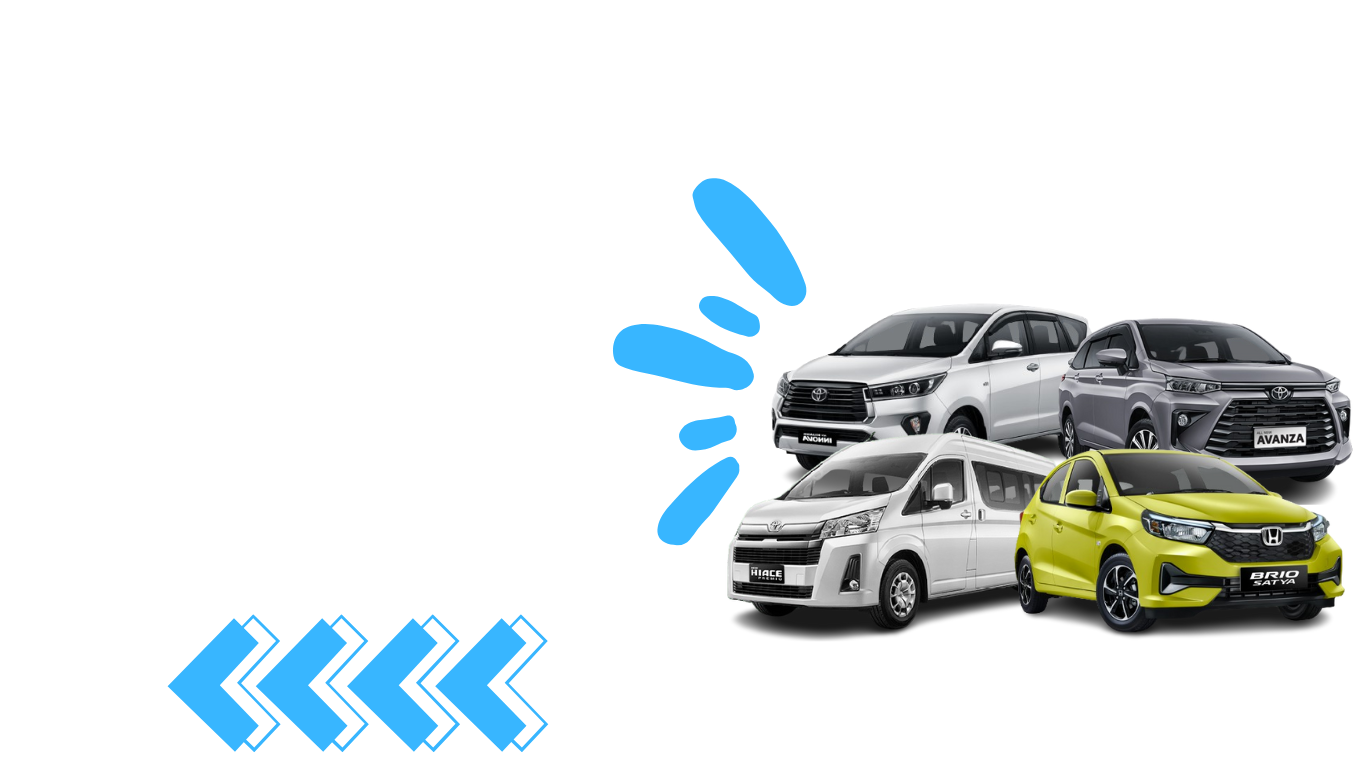
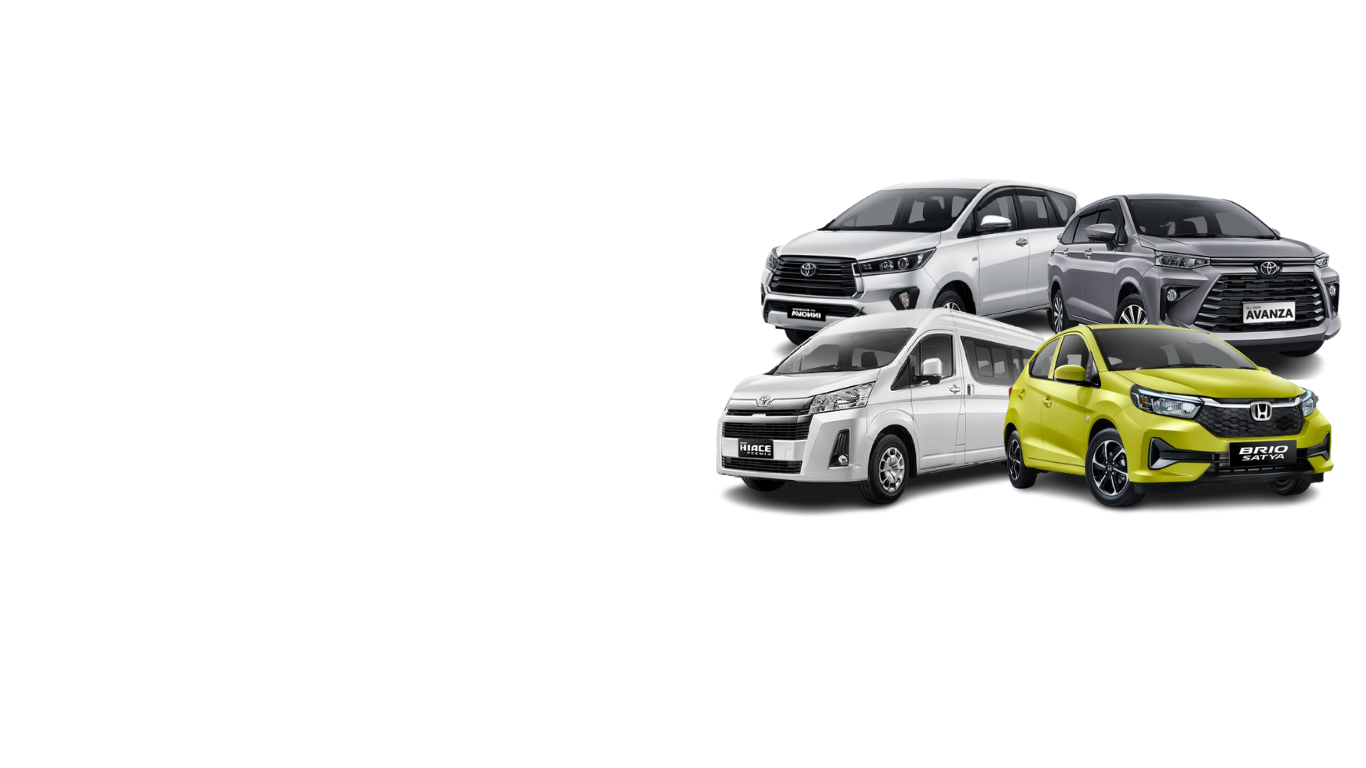
update: add code

Changed region(s): [[0.4305, 0.2188, 1.0, 0.8438], [0.123, 0.8125, 0.3997, 0.9688]]

diff --git a/Src/Index_Online/index.php b/Src/Index_Online/index.php
@@ -2,91 +2,54 @@
 $fetch_product = "select * from products";
 $result = $conn->query($fetch_product);
 ?>
-    <!-- Hero Section Begin -->
-    <section class="hero-section">
-        <div class="hero-items owl-carousel">
-            <div class="single-hero-items set-bg" data-setbg="img/BerandaUser.jpg">
-                <div class="container">
-                    <div class="row">
-                        <div class="col-lg-5">
-                            <span>Produk, Accessories</span>
-                            <h1>ZOEPY PET SHOP</h1>
-                            <p>
-                                Teman terbaik untuk hewan anda.
-                                
-                                </p>
-                            <a href="shop.php" class="primary-btn">Belanja Sekarang</a>
-                        </div>
+<!-- Hero Section Begin -->
+<section class="hero-section">
+    <div class="hero-items owl-carousel">
+        <div class="single-hero-items set-bg" data-setbg="img/BerandaUSer.png">
+            <div class="container">
+                <div class="row">
+                    <div class="col-lg-5">
+                        <span>jasa rental mobil</span>
+                        <h1>SIDA RENTCAR</h1>
+                        <p>
+                            Sida Rent Car, spesialis layanan transpotasi komersil untuk berbagai kebutuhan perjalanan
+                            anda.
+                            Berpengalaman menyediakan armada mobil terbaik di Yogyakarta, siap melayani semua kebutuhan
+                            anda.
+                        </p>
+                        <a href="shop.php" class="primary-btn">Pesan Sekarang</a>
                     </div>
-                   
                 </div>
+
             </div>
-            <div class="single-hero-items set-bg" data-setbg="img/hero-2.jpg">s
-                <div class="container">
-                    <div class="row">
-                        <div class="col-lg-5">
-                            <span style="color:white;">Produk, Accessories</span>
-                            <h1 style="color:white;">PET SHOP</h1>
-                            <p style="color:white;">
-                                Temukan daftar Produk hewann mulai dari mainan hingga Accessories yang menarik. Salah satu koleksi produk hewan peliharaan terlengkap di negara ini. 
-                                Zoepy akan melayani setiap produk yang diajukan hewan peliharaan mereka kepada mereka.</p>
-                            <a href="shop.php" class="primary-btn">Belanja Sekarang</a>
-                        </div>
+        </div>
+        <div class="single-hero-items set-bg" data-setbg="img/BerandaUser2.png">
+            <div class="container">
+                <div class="row">
+                    <div class="col-lg-5">
+                        <span style="color:black;">jasa rental mobil</span>
+                        <h1 style="color:black;">SIDA RENTCAR</h1>
+                        <p style="color:black;">
+                            Sida rent car memiliki berbagai pilihan kendaraan yang bisa anda sewa sesuai dengan
+                            kebutuhan anda.
+                            Mulai dari lcgc, mpv, suv, komersil, ataupun mobil mewah.</p>
+                        <a href="shop.php" class="primary-btn">Pesan Sekarang</a>
                     </div>
-                    <!-- <div class="off-card">
+                </div>
+                <!-- <div class="off-card">
                         <h2>Sale <span>50%</span></h2>
                     </div> -->
-                </div>
             </div>
         </div>
-    </section>
-    <!-- Deal Of The Week Section Begin-->
-    <section class="deal-of-week set-bg spad" data-setbg="img/time-bg.jpg">
-        <div class="container">
-            <div class="col-lg-6 text-center">
-                <div class="section-title">
-                    <h2>Temukan Produk Yang Baik Untuk Hewan Peliharaan Anda</h2>
-                    <p>
-                       Zoepy Pet Shop adalah satu-satunya toko dan situs web yang menawarkan rangkaian produk yang dapat disesuaikan dengan tujuan Anda. Kami menyediakan makanan hewan dengan harga yang sangat kompetitif. 
-                       Penting untuk mempertimbangkan kebutuhan hewan peliharaan Anda dan Hewan Peliharaan Premium selalu tersedia di layanan pemilik hewan peliharaan. </p>
-                </div>
-                </div>
-                <a href="shop.php" class="primary-btn">Belanja Sekarang</a>
-            </div>
-        </div>
-    </section>
-    <!-- Deal Of The Week Section End -->
+    </div>
+</section>
 
-    
-    
-            <div class="benefit-items">
-                <div class="row">
-                    <div class="col-lg-6">
-                        <div class="single-benefit">
-                            <div class="sb-icon">
-                                <img src="img/icon-1.png" alt="">
-                            </div>
-                            <div class="sb-text">
-                                <h6>Gratis Ongkir</h6>
-                                <p>Semua Jenis Orderan </p>
-                            </div>
-                        </div>
-                    </div>
-                    <div class="col-lg-6">
-                        <div class="single-benefit">
-                            <div class="sb-icon">
-                                <img src="img/icon-2.png" alt="">
-                            </div>
-                            <div class="sb-text">
-                                <h6>Pengiriman Tepat Waktu</h6>
-                                <p>Aman</p>
-                            </div>
-                        </div>
-                    </div>
-                </div>
-            </div>
-        </div>
-    </section>
-    <!-- Latest Blog Section End -->
 
-    <?php include 'footer.php'; ?>
+
+
+
+</div>
+</section>
+<!-- Latest Blog Section End -->
+
+<?php include 'footer.php'; ?>

diff --git a/Src/Index_Online/contact.php b/Src/Index_Online/contact.php
@@ -21,7 +21,7 @@
         <div class="container">
             <div class="map-inner">
                 <iframe
-                    src="https://www.google.com/maps/embed?pb=!1m14!1m8!1m3!1d15813.21865487581!2d110.4228276!3d-7.7574771!3m2!1i1024!2i768!4f13.1!3m3!1m2!1s0x2e7a59766a84daa7%3A0x8940d7441ba5e2ad!2sZoepy%20petshop%20krodan!5e0!3m2!1sid!2sid!4v1717127695562!5m2!1sid!2sid"
+                    src="https://www.google.com/maps/place/Sidadolog+RentCar/@-7.7550516,110.4241275,17z/data=!3m1!4b1!4m6!3m5!1s0x2e7a594c21734911:0x3112e0b9f484d57b!8m2!3d-7.7550569!4d110.4267024!16s%2Fg%2F11nrw195n_?entry=ttu&g_ep=EgoyMDI0MTAyMy4wIKXMDSoASAFQAw%3D%3D"
                     height="610" style="border:0" allowfullscreen="">
                 </iframe>
                 <div class="icon">
@@ -47,7 +47,7 @@
                             </div>
                             <div class="ci-text">
                                 <span>Alamat :</span>
-                                <p>Jl. Krodan No.7, Krodan, Maguwoharjo, Kec. Depok, Kabupaten Sleman, Daerah Istimewa Yogyakarta 55281</p>
+                                <p>Jl kanigoro no 232 krodan, maguwoharjo, depok sleman, jogja 55282, Sleman 55282</p>
                             </div>
                         </div>
                         <div class="cw-item">
@@ -56,7 +56,7 @@
                             </div>
                             <div class="ci-text">
                                 <span>Nomor:</span>
-                                <p>0819-1158-4099</p>
+                                <p>+6281375471934</p>
                             </div>
                         </div>
                         <div class="cw-item">
@@ -65,7 +65,7 @@
                             </div>
                             <div class="ci-text">
                                 <span>Email:</span>
-                                <p>Zoepy@gmail.com</p>
+                                <p>sidarentcar@gmail.com</p>
                             </div>
                         </div>
                     </div>

diff --git a/Src/Index_Online/aboutus.php b/Src/Index_Online/aboutus.php
@@ -17,12 +17,12 @@
     <div class="container">
         <div class="jumbotron">
             <p>
-           <h3> Selamat Datang di Website Zoepy Petshop</h3>
-            Zoepy Petshop Merupakan salah satu Petshop Terlengkap yang ada di derah Yogyakarta terpatnya di  Jalan.Krodan no.7, Krodan, Maguwoharjo, Kecamatan depok, Kabupaten Sleman, Daerah Istimewa Yogyakarta. 
-           Petshop ini berdiri sejak tahun 2020.Zoepy memberikan pelayanan yang terbaik untuk Anda, dengan pekerja yang profesional dan yang pastinya berpengalaman di bidangnya masing-masing. 
-           Zoepy hadir untuk Anda yang merasa kerepotan dengan masalah perawatan untuk hewan peliharaan Anda. 
-           Mungkin sibuk bekerja atau yang lainnya, dan untuk harga produk dan layanan yang masih terjangkau untuk kalangan masyarakat. 
-           Kualitas produk yang kami sediakan juga sangat terjamin. melayani berbagai macam kebutuhan untuk hewan peliharaan Anda. Mulai dari makanan, perawatan, penginapan dan yang lainnya.
+           <h3> Selamat Datang di Sida Rent Car</h3>
+            Sida rent Car merupakan salah satu penyewaan mobil terlengkap yang ada di derah Yogyakarta terpatnya di Jalan Paingan,
+            Krodan, Maguwoharjo, Kecamatan depok, Kabupaten Sleman, Daerah Istimewa Yogyakarta. Penyewaan mobil ini berdiri sejak 2018.
+            Sida rent car memberikan pelayanan yang terbaik untuk Anda, dengan staff yang profesional dan ramah. Sida rent car hadir untuk anda yang sedang memerlukan mobil untuk kebutuhan sementara waktu. Mungkin untuk liburan, kebutuhan acara dll. Harga sewa dan layanan yang masih terjangkau untuk kalangan masyarakat. Kualitas armada yang kami sediakan juga sangat terjamin. 
+            melayani berbagai macam kebutuhan kendaraan anda dan menyediakan berbagai model dan jenis mobil. 
+            Mulai dari LCGC, MPV, SUV, VIP, Komersil.
             </p>
         </div>
     </div>

diff --git a/Src/Index_Online/footer.php b/Src/Index_Online/footer.php
@@ -5,13 +5,13 @@
                 <div class="col-lg-3">
                     <div class="footer-left">
                         <div class="footer-logo">
-                            <a href="#"><img src="img/WhatsApp Image 2024-05-31 at 17.55.44.jpeg  " alt="" style="width:50px; height
+                            <a href="#"><img src="img/logooo.png " alt="" style="width:200px; height
                                 :50px;"></a>
                         </div>
                         <ul>
-                            <li>Address: Jl. Krodan No.7, Krodan, Maguwoharjo, Kec. Depok, Kabupaten Sleman, Daerah Istimewa Yogyakarta 55281</li>
-                            <li>Phone: 0819-1158-4099</li>
-                            <li>Email: zoepy@gmail.com</li>
+                            <li>Address: Jl kanigoro no 232 krodan, maguwoharjo, depok sleman, jogja 55282, Sleman 55282</li>
+                            <li>Phone: +6281375471934</li>
+                            <li>Email: sidarentcar@gmail.com</li>
                         </ul>
                         <div class="footer-social">
                             <a href="https://www.facebook.com/TheRVCJMedia/"><i class="fa fa-facebook"></i></a>

diff --git a/Src/Index_Online/header.php b/Src/Index_Online/header.php
@@ -91,12 +91,12 @@ if(!isset($_SESSION['uid']) || $_SESSION['uid'] == NULL){
             </div>
         </div>
         <div class="container">
-            <div class="inner-header">
+        <div class="inner-header">
                 <div class="row">
                     <div class="col-lg-2 col-md-2">
                         <div class="logo">
                             <a href="./index.php">
-                                <img src="img/WhatsApp Image 2024-05-31 at 17.55.44.jpeg" alt="" style="width:100px; height:100px;">
+                                <img src="img/logooo.png" alt="" style="width:1000px; height:50px;">
                             </a>
                         </div>
                     </div>

diff --git a/Src/Index_Online/shop.php b/Src/Index_Online/shop.php
@@ -57,7 +57,7 @@ $result = $conn->query($fetch_product);
                         <?php
                         while($row = $result->fetch_assoc()){
                             ?>
-                            <div class="col-lg-4 col-sm-6">
+                            <div class="col-lg-4 col-sm-6">]
                                 <div class="product-item">
                                     <div class="pi-pic">
                                         <!-- Tambahkan path ke gambar menggunakan fungsi htmlspecialchars() untuk mencegah XSS -->

diff --git a/Src/Index_Online/login.php b/Src/Index_Online/login.php
@@ -4,7 +4,7 @@ if(isset($_POST['signin'])){
     if($_POST['email'] != NULL && $_POST['pass'] != NULL){
         $email = $_POST['email'];
         $pass = $_POST['pass'];
-        $check_user = "select * from user_details where email = '$email' and password = '$pass'";
+        $check_user = "SELECT * FROM user_details where email = '$email' and password = '$pass'";
         $result = $conn->query($check_user);
         if($result->num_rows > 0){
             while($row = $result->fetch_assoc()){
